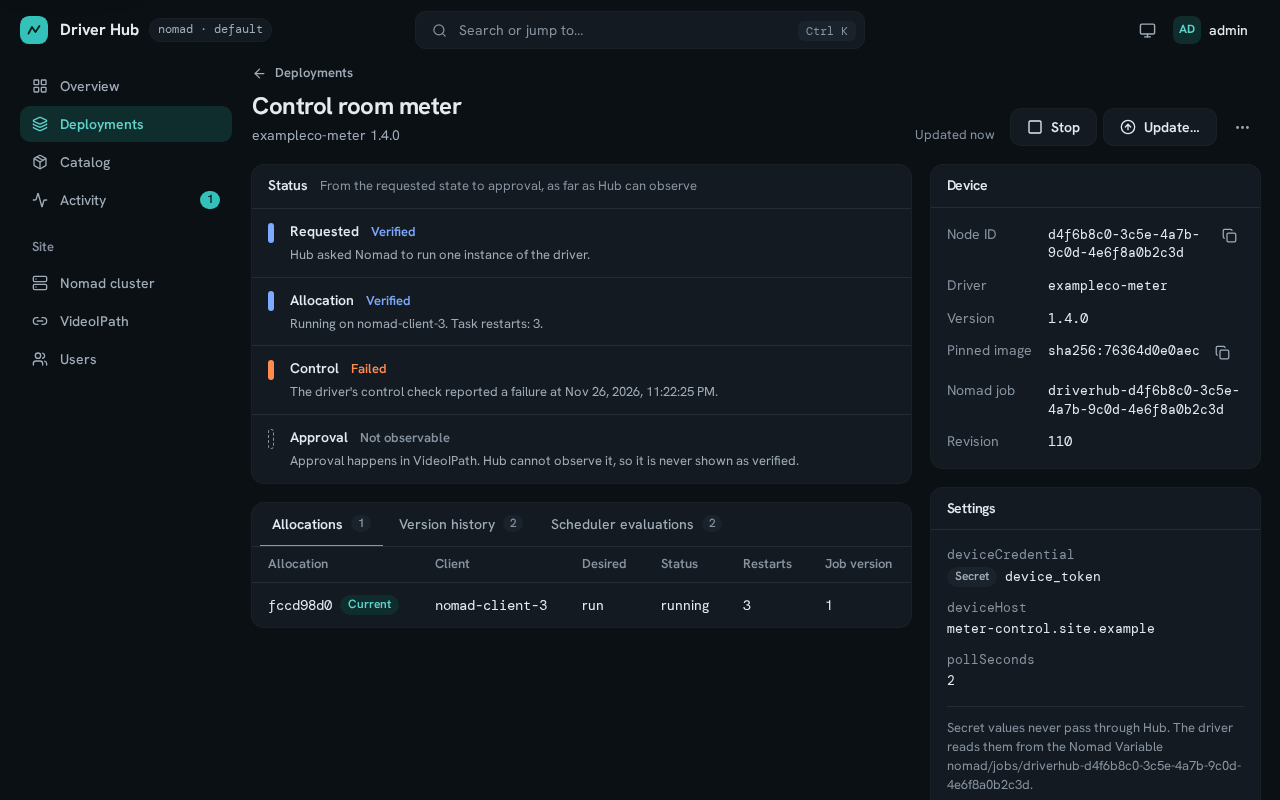
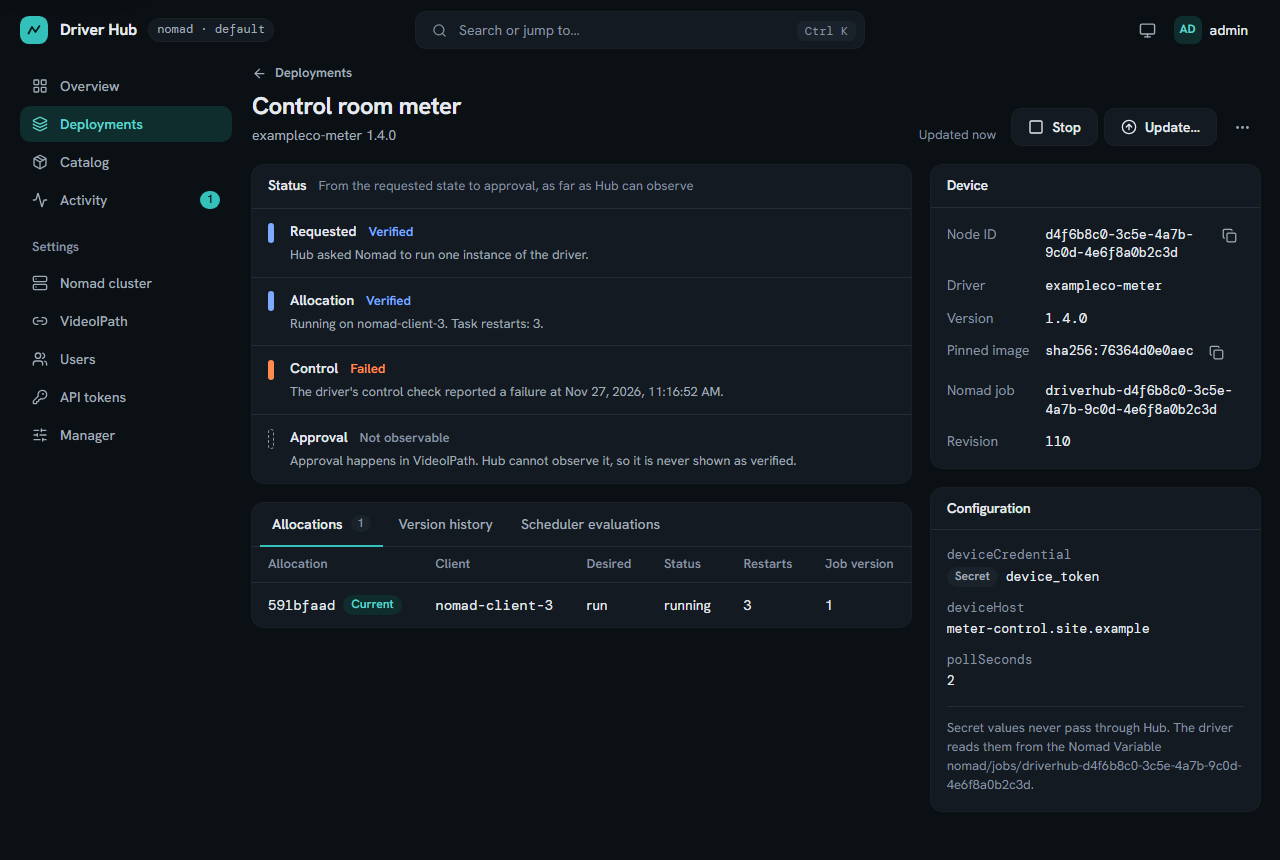
Document Nomad image distribution, upgrades and verified failover behavior

diff --git a/OPERATIONS.md b/OPERATIONS.md
@@ -1,6 +1,6 @@
 # Running Driver Hub
 
-The manager is an HTTP API. Operators and the future UI use the same endpoints. The customer owns Nomad; device approval remains in VideoIPath.
+Operators use the manager's web app; scripts use the same `/api/v1` endpoints. The customer operates Nomad, and device approval remains in VideoIPath.
 
 ## Installation
 
@@ -23,7 +23,7 @@ Saved in the site settings instead:
 
 | Setting | In the web interface | Purpose |
 | --- | --- | --- |
-| Nomad address, namespace, datacenters, ACL token | Settings > Nomad, Connection | Nomad HTTP(S) API, namespace (`default`) and datacenters (`dc1`). Use a stable HTTPS endpoint in production. The ACL identity needs listing, reading, planning and submitting service jobs and reading allocation checks. Use a namespace dedicated to Driver Hub. |
+| Nomad address, namespace, datacenters, ACL token | Settings > Nomad, Change the connection | Nomad HTTP(S) API, namespace (`default`) and datacenters (`dc1`). Use a stable HTTPS endpoint and a dedicated namespace in production. The ACL must cover driver service jobs, the image system job, allocation checks and the Variables below. |
 | Nomad web interface | Settings > Nomad, Jobs | Optional operator-facing HTTPS origin of the target Nomad UI. Adds allocation log links using the operator’s own Nomad login; leave empty if targets do not share that UI. |
 | Shared writers | Settings > Nomad, Jobs | On if another process can edit Hub jobs directly. Disables job purge, which has no server-side revision check, so deployments cannot be deleted. |
 | Source builds | Settings > Manager | Lets administrators build reviewed source from the public repository using Docker Buildx. Off by default; it can only be turned on when the manager can build (see [customer builds](#customer-builds)). |
@@ -33,23 +33,35 @@ Saved in the site settings instead:
 
 ### Image distribution
 
-Driver Hub delivers driver images to the Nomad clients itself; there is nothing to configure and no separate image service to run. When the Nomad connection is saved, Hub registers a system job, `driverhub-images`, in the same namespace and datacenters. It runs a small image service on every eligible Linux client:
+After the Nomad connection is saved, the manager writes the desired image list to `nomad/jobs/driverhub-images`, then registers the `driverhub-images` system job in that namespace and its configured datacenters. No customer registry is needed. Use the Hub container for this workflow: a source checkout without the packaged image service reports `unavailable` with `reason: "no_package"`.
 
 - **Pulls stay on the machine.** Driver jobs pull from `127.0.0.1:5480`, the copy on their own client. Docker accepts plain HTTP from a registry in `127.0.0.0/8` without configuration. Docker documents this, but advises against relying on it; a daemon configured otherwise needs `127.0.0.1:5480` in its `insecure-registries`.
-- **Every client keeps a copy.** Each copy fetches every image Hub has staged at least once, ahead of time, from the manager or from the copies on other clients. A driver that Nomad moves to another client therefore starts even while the manager is down. A pull for an image a copy does not have yet is fetched on demand.
+- **Every client keeps a copy.** The service copies the published images on Hub's list from the manager or a peer. If Docker asks for a pinned root manifest before a newly staged image appears on the local list, the service can fetch it on demand and keeps the fresh copy through a one-hour grace period. With the manager down, a replacement driver needs a running local image service and either a local copy or a reachable peer with the complete image.
 - **Content is verified.** Hub lists each image's root digest in the job's Nomad Variable, `nomad/jobs/driverhub-images`; copies check every file against its SHA-256, and driver jobs pin the digest, so a source cannot substitute an image.
-- **The image service delivers itself.** Its own image is a `docker save` archive built into Hub's container image. Clients fetch it once from the manager as the job's artifact, checked against the SHA-256 in the job, and Docker keeps it cached. Clients need no registry or internet access.
-- **Status.** Settings > Nomad and the overview show on how many clients the service runs and how many hold every image.
+- **Package upgrades.** The service itself ships as a gzipped `docker save` archive in the Hub container. On installation or upgrade, Nomad fetches `/_hub/image-service-<sha256>.tar.gz` from the manager's distribution port, verifies the job's checksum, and Docker loads that exact filename. A shorter replacement never overwrites an older archive in the retained task directory. Once running, the service removes old package archives and keeps the current one for restart. A client that has never obtained the package needs the manager to bootstrap.
+
+**Reading image status:** Open **Settings → Nomad → Image distribution**, or request `GET /api/v1/integrations/images` as a viewer or administrator. `running` is the number of running current allocations. `upToDate` counts those with a passing `images-copied` check for the list rendered on that client. These counts do not measure driver or device health.
+
+| State | Meaning or next check |
+| --- | --- |
+| `not_configured` | Save a Nomad connection first. |
+| `unavailable` | The manager has no image-service package. Use the packaged Hub container. |
+| `starting` | Hub has not finished its first reconciliation, or clients are still starting. Two healthy copies and one pending download can correctly show `running: 2`, `upToDate: 2`, `state: "starting"`. |
+| `copying` | Some services are running, but checks or other current allocations are not healthy yet. Look at `problems` and the `images-copied` checks. |
+| `ready` | At least one current allocation is running and all current allocations wanted by Nomad pass their copy check. Compare `running` with your expected client count. |
+| `failing` | Hub could not reconcile the job or its Variable, or no copy is running and an allocation reported a problem. Check the returned `reason`/`detail` or the task events on the named client. Superseded allocation failures are excluded. |
 
 What it needs from the cluster:
 
 - Port `5480` free on every client. Nomad reserves it for the job, and the service listens on every interface so other clients can copy from it.
 - The Docker driver's defaults: host networking and loading an image from a file.
 - Disk for the images in use, in the allocation's data directory; it is kept when Nomad replaces the allocation on the same client.
-- Clients must reach the manager's `DRIVER_HUB_DISTRIBUTION_PORT` (default `5481`) and each other's port `5480`. Both serve only verified images by digest, with no upload or delete API; restrict them to the client network.
+- Clients must reach the manager's distribution listener (default TCP `5481`) for package and image downloads, and each other's TCP `5480` for peer copies. Both are read-only HTTP listeners: restrict them to the client network. For `Failed Artifact Download`, compare the job's artifact URL and checksum with what the client can fetch at the advertised address. Do not disable checksum verification.
 - The clients' CPU architecture must match the manager image's (the job is constrained to it).
 
 Back up retained releases, `DRIVER_HUB_DATA_DIR/images` and `DRIVER_HUB_DATA_DIR/labels` (operator-entered device names); use the customer's normal Nomad backup process for jobs and Variables. Do not delete a published digest needed by a running deployment or its rollback version.
+
+**Upgrading from the separate image host:** Remove `imageHost` from scripts that call `PUT /site/deployment`; that field is no longer accepted. Upgrading the manager does not rewrite existing driver jobs. Before retiring the old host, inspect the pinned `image` in `GET /api/v1/deployments/{nodeId}` for each device. For jobs still pointing there, preview a start or version update as appropriate and apply it during the device's maintenance window. Confirm the job now pins `127.0.0.1:5480/driverhub/…@sha256:…` and verify the driver check.
 
 ## Operator sign-in
 
@@ -87,7 +99,7 @@ Start the manager with a durable directory writable by UID 1000, then sign in an
 
 ```sh
 docker run -d --name driverhub --restart unless-stopped \
-  -p 127.0.0.1:8080:8080 -p 5481:5481 \
+  -p 127.0.0.1:8080:8080 -p 5481:5481 -e HOST=0.0.0.0 \
   -v /srv/driverhub/bootstrap-password:/run/secrets/initial-password:ro \
   -e DRIVER_HUB_BOOTSTRAP_PASSWORD_FILE=/run/secrets/initial-password \
   -e DRIVER_HUB_DISTRIBUTION_ADDRESS=driverhub.site.example \
@@ -96,18 +108,20 @@ docker run -d --name driverhub --restart unless-stopped \
 
 With host networking (`--network host`) instead, leave `DRIVER_HUB_DISTRIBUTION_ADDRESS` unset and set `HOST=127.0.0.1` to keep the API on loopback.
 
-The web interface uses these admin-only JSON endpoints under `/api/v1`; scripts can too. Supply the latest `revision` on each PUT; it covers all site settings. Tokens are write-only.
+The site endpoints below are admin-only; integration status is also readable by viewers. Paths are relative to `/api/v1`. Supply the latest site `revision` on each PUT; it covers all site settings. Tokens are write-only.
 
 | Request | Input and result |
 | --- | --- |
-| `GET /site` | Returns revision, addresses, namespace, datacenters, token availability and per-device assignments (UUID and SHA-256 token fingerprint). No credential values. |
+| `GET /site` | Returns revision, addresses, namespace, datacenters, `nomad.plainHttp`, token availability and per-device assignments (UUID and SHA-256 token fingerprint). No credential values. |
 | `PUT /site/nomad` | `{"revision":0,"address":"nomad.site.example","namespace":"default","datacenters":["dc1"],"token":"<Nomad ACL token>"}`. A bare IP or DNS name uses HTTPS on 4646; an explicit API URL can specify another port. Hub checks the leader and job-list access before saving. Omit the token to keep it on the same target, or send `null` for an ACL-disabled cluster. |
 | `PUT /site/deployment` | `{"revision":1,"nomadUiOrigin":"https://nomad.site.example","sharedWriters":false}`. Each field is optional: an omitted one keeps its value, `null` clears the Nomad web interface. |
-| `GET /integrations/images` | Any signed-in operator. Image distribution status: `state` (`not_configured`, `unavailable`, `starting`, `copying`, `ready` or `failing`), `running` and `upToDate` client counts, the number of `images`, the manager `source` address and `problems` per client. |
+| `GET /integrations/images` | [Image distribution state and counts](#image-distribution), number of published `images`, manager `source` address and `problems` per client. |
 | `PUT /site/manager` | `{"revision":2,"buildsEnabled":true,"timings":false}`. Turning builds on returns `409 builds_unavailable` when the manager cannot build. `GET /site` reports that as `manager.buildsAvailable`. |
 | `GET /site/environment` | The startup settings from the table in [installation](#installation): each `name`, `value` in effect, and `source` (`environment`, `default` or `unset`). Secrets report only their source. |
 | `PUT /site/videoipath` | `{"revision":1,"address":"vip.site.example","tokens":["<driver token A>","<driver token B>"]}`. Hub normalizes the address to `wss://vip.site.example/x-driver/v1`. The default `tokenMode` is `per-device`. Repeat with the current revision to add more pre-issued tokens. Saving does not open a driver session. |
 | `DELETE /site/videoipath/tokens/{fingerprint}?revision=N` | Removes a per-device token from the pool, identified by the SHA-256 fingerprint that `GET /site` lists under `videoipath.pool`. Allowed for an unused token, or one reserved for a device whose deployment no longer exists; a token of an existing deployment returns `409 token_in_use`. Revoke removed tokens in VideoIPath. |
+
+**Trusted development networks:** Hub defaults to HTTPS for credentials sent to a remote Nomad API. If a development cluster serves only HTTP, enter an explicit address such as `http://nomad.dev.example:4646` and select **Send the token over plain HTTP** when keeping or supplying an ACL token. In `PUT /site/nomad`, send `"plainHttp": true`; the saved flag defaults to `false`. Without permission Hub returns `422 nomad_plain_http` before sending the credential. The exception also permits site-managed driver registration over that unencrypted connection. Use HTTPS in production. This setting affects the manager's connection to Nomad, not browser sessions, driver connections to VideoIPath, or the image listener ports.
 
 **Token ownership:** Create external-driver bearer tokens in the VideoIPath CLI. Hub reserves one distinct token per device UUID when actually staging. A preview consumes none. An empty pool returns `409 driver_token_pool_empty`; it never falls back to sharing. Retrying a failed stage with the same UUID reuses its reservation. Rescheduling, restarting, updating and rolling back an existing device do not claim another token. To deliberately share one token among future deployments, set `"tokenMode":"shared"` and supply `"token"` instead of `"tokens"`. Revocation remains in VideoIPath. Match the admin-visible fingerprint to your issuance record; the logged fingerprint should be computed on the exact token bytes without a newline.
 
@@ -295,6 +309,10 @@ Use the returned local version in the stage request. Set `backendUrl` to the tes
 
 `node --test test/active-nomad.test.js` exercises an **active Docker allocation** on an explicitly supplied test cluster. Set `DRIVER_HUB_TEST_ACTIVE_NOMAD` to its API URL, `DRIVER_HUB_TEST_IMAGE_HOST` to the address of its test distribution service, and `DRIVER_HUB_TEST_IMAGES_DIR` to that service's writable image directory. Optional settings: `DRIVER_HUB_TEST_NOMAD_TOKEN`, `DRIVER_HUB_TEST_NAMESPACE`, `DRIVER_HUB_TEST_DATACENTER`, `DRIVER_HUB_TEST_PLATFORM`. A Docker/Buildx-capable test runner builds two small HTTP probe images. The suite creates a unique job-scoped Nomad Variable containing a public marker, checks env and file delivery and the exact node UUID, waits for current-allocation check results after start/update/rollback, verifies stop, and removes its own job, Variable and images. It needs test-only Variable write/delete permissions in addition to the manager permissions. Run it only on a dedicated test installation. The synthetic probe makes no VideoIPath or device requests.
 
+This standalone test constructs its own Nomad client; it does not inherit the site's `plainHttp` opt-in. Use HTTPS or a loopback address when passing a test token.
+
 **Site acceptance:** use a test device and two eligible Nomad clients. Stage and start one approved driver, verify a real control read, update it and roll back with the same UUID. With the manager host powered off, fail the active driver host and verify that the cold client pulls the exact digest, reads its configuration and restores actual device communication. Record recovery time. Separately partition the old host's management network while its device network remains reachable and test site fencing. Only then claim the site meets its HA target.
 
 **Backend handoff evidence:** a disposable Linux Nomad 1.10.5 client with Docker ran the synthetic active-allocation suite, including both forms of Variable delivery and check transitions for two image versions. The complete suite passed with the runtime tests enabled and run serially. Earlier lab runs also encountered intermittent staging/image-pull failures on the Windows/Docker Desktop shared-filesystem setup; their cause was not established. The passing run is a single-client lifecycle result, not a storage availability or partition-fencing qualification.
+
+**Three-client development trial:** With the manager stopped, Nomad rescheduled a synthetic driver to a different client and its HTTP control check passed. After the manager returned, successively smaller image-service packages rolled out across all three clients. Hub reported `starting` while a client was downloading and `ready` with all three checks passing. Each client served the second probe's exact manifest digest, and its running allocation passed the control check. This exercise used a stopped manager and a rescheduled probe, not a powered-off driver host, a proven empty Docker cache, or a physical device. Those cases remain part of site acceptance.

diff --git a/README.md b/README.md
@@ -52,7 +52,7 @@ Downloads and builds run on the manager in the background. Activity lists them w
 
 Administrators set up the site under **Settings**. Everything that can be changed while Hub runs is changed there; `compose.yaml` keeps only what the manager needs to start.
 
-- **Nomad.** The connection (address, namespace, datacenters and ACL token; Hub saves only after it reaches the leader and can list jobs), the link to the Nomad web interface, whether other processes also edit Hub's jobs, and the status of image distribution, which Hub sets up by itself.
+- **Nomad.** Set the cluster address, namespace, datacenters and ACL token. Hub checks for a leader and job-list access before saving. Use HTTPS in production; for a trusted development network, **Send the token over plain HTTP** is an explicit opt-in, off by default. This page also shows image distribution status, the Nomad UI link and whether other processes edit Hub's jobs.
 - **VideoIPath.** The driver endpoint and the pool of pre-issued driver tokens, one per device or shared. Tokens show as SHA-256 fingerprints to match your issuance records. Unused tokens, and tokens of deleted devices, can be removed.
 - **Users.** Local accounts with an _Administrator_ or _Viewer_ role. Accounts can be disabled, given a new password or deleted; the last administrator is protected.
 - **API tokens.** Named bearer tokens for scripts, each an _Administrator_ or _Viewer_, shown once and revocable.
@@ -64,7 +64,7 @@ A device's own values, entered at staging, are its **Configuration**, shown on i
 
 ### Throughout
 
-- **Roles.** Viewers see everything and can preview changes; administrators apply them. The API enforces the same rules.
+- **Roles.** Viewers can browse releases, monitor deployments and preview changes. Administrators apply changes and manage site settings, accounts and API tokens. The API enforces the same rules.
 - **Command palette.** <kbd>Ctrl</kbd> <kbd>K</kbd> jumps to pages, devices and releases.
 - **Themes, layout and accessibility.** Light and dark themes and narrow screens are supported, and every page is checked against WCAG 2.2 AA in the automated tests.
 
@@ -90,11 +90,12 @@ A step Hub has no evidence for is shown as _not observable_, never as success. A
 With Docker, start the manager and web app on `http://localhost:8080`:
 
 1. Next to `compose.yaml`, create a file named `.env` containing `DRIVER_HUB_INITIAL_PASSWORD=` followed by a password of at least 12 characters. It is only used to create the first account, `admin`, while the data volume is empty. The file is ignored by Git.
-2. Run `docker compose up --build -d`, then open `http://localhost:8080` and sign in as `admin`.
+2. If connecting a real cluster, set `DRIVER_HUB_DISTRIBUTION_ADDRESS` under `manager.environment` in `compose.yaml` to the Docker host's name or IP as seen by the Nomad clients. They need to reach that host on TCP `5481` and one another on TCP `5480`. Skip this step for a UI-only trial.
+3. Run `docker compose up --build -d`, then open `http://localhost:8080` and sign in as `admin`. After saving a cluster under **Settings → Nomad**, check **Image distribution** there. A connected Nomad API alone does not mean clients can pull images.
 
-Use `localhost`, not an IP address: the session cookie is `Secure`, which browsers accept over plain HTTP only on `localhost`. Without a Nomad cluster, the overview reports what the site still needs. `docker compose down` stops it; add `-v` to also delete the accounts and settings. `compose.yaml` lists the startup settings with their defaults; everything else is set in the web app under Settings.
+Use `localhost` for the HTTP web app: its session cookie is `Secure`. Without a Nomad cluster, the overview reports what the site still needs. `docker compose down` stops the manager and keeps its data. Adding `-v` deletes the trial volume, including accounts, site settings, retained releases and published images; it does not remove jobs in Nomad.
 
-**Explore the deployment screens without a cluster:** with Node.js 22.17+ and npm 11+, run `npm ci` in this directory and in `web/`, then `npm run demo` in `web/`. This starts the manager with a stand-in Nomad cluster and six example devices on `http://localhost:4182`, and prints the sign-in details. The screenshots above were taken from it.
+**Explore the deployment screens without a cluster:** with Node.js 22.17+ and npm 11+, run `npm ci` in this directory and in `web/`, then `npm run demo` in `web/`. This starts the manager with a stand-in Nomad cluster and six example devices on `http://localhost:4182`, and prints the sign-in details. The screenshots use those demo devices and illustrative catalog, activity and image-status data.
 
 ## Running the backend
 
@@ -105,14 +106,14 @@ Install Node.js 22 or newer and run `npm ci`. For a new installation, set `DRIVE
 | Area | Endpoints under `/api/v1` |
 | --- | --- |
 | Releases | `GET /releases`, `GET /releases/{driverId}/{version}`, `GET /retained`, `GET`/`PUT`/`DELETE /retained/{driverId}/{version}`, `PUT /imports/{driverId}/{version}`, `POST /builds`, `GET /updates`, `POST …/deploy-form` |
-| Deployments | `GET`/`POST /deployments`, `GET`/`DELETE /deployments/{nodeId}`, `POST /deployments/{nodeId}/{start,stop,update,rollback}` (with `?dryRun=true` to plan), `PUT …/label`, `GET …/history`, `GET …/evaluations` |
+| Deployments | `GET`/`POST /deployments`, `GET /deployments/directory`, `GET`/`DELETE /deployments/{nodeId}`, `POST /deployments/{nodeId}/{start,stop,update,rollback}` (with `?dryRun=true` to plan), `PUT …/label`, `GET …/history`, `GET …/evaluations`, `GET …/rollout` |
 | Background work | `GET /operations`, `GET /operations/{id}` |
-| Site | `GET /site`, `PUT /site/{nomad,deployment,manager,videoipath}`, `DELETE /site/videoipath/tokens/{fingerprint}`, `GET /site/environment`, `GET /integrations/nomad`, `GET /capabilities` |
+| Site | `GET /site`, `PUT /site/{nomad,deployment,manager,videoipath}`, `DELETE /site/videoipath/tokens/{fingerprint}`, `GET /site/environment`, `GET /integrations/nomad`, `GET /integrations/images`, `GET /capabilities` |
 | Accounts | `POST /auth/login`, `GET /auth/session`, `POST /auth/logout`, `POST /auth/password`, `GET`/`POST /users`, `PATCH`/`DELETE /users/{username}`, `GET`/`POST /api-tokens`, `DELETE /api-tokens/{id}` |
 
 The [client API contract](OPERATIONS.md#client-api-contract) describes requests, errors and revisions in detail; the running manager also serves it as OpenAPI 3.1 at `/api/v1/openapi.json`, from which the web app's types are generated.
 
-Set `DRIVER_HUB_DATA_DIR` to select the data directory (default: `.driver-hub` in the user's home). Retention verifies the archive checksum and commits a version by directory rename. Before job submission, `src/images.js` validates the OCI layout, manifest/index digest, referenced descriptors, blob sizes, checksums and declared platforms. Hub delivers those images to the Nomad clients itself: an image service it runs on every client (`src/image-service.js`) keeps a verified copy of each, so drivers pull from their own machine and restart without the manager. See [image distribution](OPERATIONS.md#image-distribution).
+Set `DRIVER_HUB_DATA_DIR` to select the data directory (default: `.driver-hub` in the user's home). Downloading or importing a release retains it; staging publishes its verified OCI image for the clients. Each eligible Nomad client runs an image service and drivers pull from `127.0.0.1:5480`. An existing service can serve its local copy, or fetch from a peer that has the image, while the manager is down. The Hub container includes the package needed to start the image service; a plain `npm ci` checkout does not. See [image distribution](OPERATIONS.md#image-distribution).
 
 `src/catalog.js` coordinates discovery and retention, `src/imports.js` verifies uploaded images, `src/builds.js` produces site-local releases, and `src/retention.js` removes unused ones. `src/deployments.js` orchestrates lifecycle operations; `src/job.js` translates a validated deployment to a job, and `src/nomad.js` implements the cluster API. Job definitions and revision checks live in Nomad, so recovery does not depend on a running management API.
 
@@ -151,7 +152,7 @@ The web app is a SvelteKit single-page application; [`web/README.md`](web/README
 | 12. Approval | Device approval stays in VideoIPath. Distinguish Nomad process status from driver communication; report only states that can be verified. |
 | 13. Migration | Support moving an already-running external driver to Driver Hub in the first release. Preserve the existing `node_id`. Stage the replacement, stop the original, start the replacement, then verify control. To revert, stop the replacement before restarting the original. |
 | 14. Configuration | Each deployable release declares its inputs: names, types, requirements, defaults where applicable, secret fields and how the image receives them. Customer values stay local. Validate against the target release before deployment or cutover. |
-| 15. Image distribution | Image distribution is a built-in, automatic part of Driver Hub that needs no configuration. Hub runs an image service on every eligible Nomad client and keeps a verified copy of every staged image there, so drivers pull from their own machine. Running the image service outside Driver Hub, or using another registry, is not supported. This supersedes the separate image host. |
+| 15. Image distribution | Hub manages the image service on eligible Nomad clients; drivers pull from their own machine. No separate registry or per-driver image host is required. If clients cannot reach the manager at its detected address, configure the advertised distribution address. This supersedes the separate image host. |
 
 The lifecycle and status meanings above are shared product behavior. The web frontend follows them: it shows process status and driver communication separately and never reports approval as verified.
 
@@ -168,7 +169,7 @@ The first unresolved design question is **safe failover during a network partiti
 | Open design item | What to establish |
 | --- | --- |
 | Failover and health | How to prevent competing instances, what evidence confirms device communication, and how quickly control needs to return. Verify takeover and recovery with the intended VideoIPath release. |
-| Image distribution | Verify on a real cluster: the image service starting from its archive on every client, copies between clients, and a pull by a cold replacement client with the management host powered off. |
+| Image distribution | A three-client development trial verified package upgrades, the probe manifest on all three clients and probe rescheduling with the manager stopped. Still to qualify: a confirmed cold pull after hard host loss and recovery of real device communication. See [verification](OPERATIONS.md#verification). |
 | Release pilot | Whether upstream maintainers accept the convention. Exercise discovery and download of two releases of one driver, a changed required setting, update and rollback. |
 
 When resuming work, read this file first. Preserve the interview numbers when revising a decision, distinguish proposals from agreements, and add subsequent decisions with the next available number.

diff --git a/web/README.md b/web/README.md
@@ -1,6 +1,6 @@
 # Driver Hub web frontend
 
-A static single-page app built with Svelte 5 (runes) and SvelteKit 3. The manager (`../src/main.js`) serves the build from `web/build` on the same origin as `/api/v1`, with a strict Content-Security-Policy. There is no frontend server. Signing in uses the manager's `HttpOnly` session cookie; service tokens never reach the browser.
+A static single-page app built with Svelte 5 (runes) and SvelteKit 3. The [manager](../src/main.js) serves the build from `web/build` on the same origin as `/api/v1`, with a strict Content-Security-Policy. No separate frontend server is needed in production. The browser authenticates with the manager's `HttpOnly` session cookie.
 
 ## Develop
 
@@ -25,6 +25,8 @@ Run a manager next to it (`npm start` in the repository root, with `DRIVER_HUB_B
 
 The end-to-end tests run two managers: a fresh site on port 4180, and one on port 4182 connected to the fake Nomad in `e2e/cluster/`. That stand-in implements the Nomad API calls the manager makes and keeps jobs, versions, allocations and evaluations in memory. Retained releases are tiny but valid OCI images, and every device is staged, started and updated through the manager's own API, so the deployment screens see exactly what the backend reports. Tests set conditions such as a failing control check through its `/_fake` routes. `npm run demo` starts the same installation for a manual look (it needs `npm ci` in the repository root too). The sign-in details are printed on start.
 
+The demo exercises the UI, not real Nomad image pulls. With a source checkout that has no packaged image service, a configured demo can show **Nomad: Connected** and **Image distribution: Unavailable** at the same time. To exercise distribution itself, use the [container and a real development cluster](../OPERATIONS.md#image-distribution).
+
 Run `npx playwright install chromium` once before browser tests. On Windows, run Vitest from a working directory with an upper-case drive letter (`C:\…`); a lower-case one loads Vitest twice and every suite fails with "failed to find the current suite".
 
 ## Structure
@@ -35,7 +37,7 @@ Run `npx playwright install chromium` once before browser tests. On Windows, run
 | `src/lib/session/`                | `Session` state (depends on the `AuthService` interface), sign-in, re-authentication and password dialogs.                                                                                        |
 | `src/lib/query/`                  | TanStack Query defaults: retry only transient failures, poll every 10 s, pause while hidden.                                                                                                      |
 | `src/lib/<feature>/`              | Query factories and pure view logic per area, for example `system/readiness.ts` and `deployments/status-path.ts`.                                                                                 |
-| `src/lib/deployments/`            | The deployment list and detail: conditions and filters (`view.ts`), preview-then-apply lifecycle (`lifecycle.ts`), the settings form (`settings-form.ts`) and staging (`stage.ts`).               |
+| `src/lib/deployments/`            | The deployment list and detail: conditions and filters (`view.ts`), preview-then-apply lifecycle (`lifecycle.ts`), the configuration form (`configuration-form.ts`) and staging (`stage.ts`).     |
 | `src/lib/catalog/`                | Published and retained releases, the release page's inputs, downloads, local imports, source builds, removal, staging and form validation (`validation.ts`).                                      |
 | `src/lib/operations/`             | Background downloads and builds for Activity and the catalog, polled quickly only while one runs.                                                                                                 |
 | `src/lib/site/`, `src/lib/users/` | Nomad and VideoIPath settings (mirroring the manager's address rules) and local accounts.                                                                                                         |
@@ -46,6 +48,8 @@ Run `npx playwright install chromium` once before browser tests. On Windows, run
 | `messages/en.json`                | Every user-facing string (Paraglide). Add a locale file and list it in `project.inlang/settings.json` to translate.                                                                               |
 
 State lives in rune-based classes and TanStack queries; components read fields and call methods, so only the parts of the page that depend on a changed value update.
+
+The overview and **Settings → Nomad** read `GET /api/v1/integrations/images`. `src/lib/system/image-distribution.ts` maps the manager's state to UI text; `ImageDistributionCard.svelte` shows the counts, source and current client problems. Use the returned `state`: two healthy running clients can still mean **Starting** while a third is downloading. The connection form saves the trusted-network `plainHttp` opt-in through `PUT /api/v1/site/nomad`; the browser never connects directly to Nomad.
 
 ## Design
 
